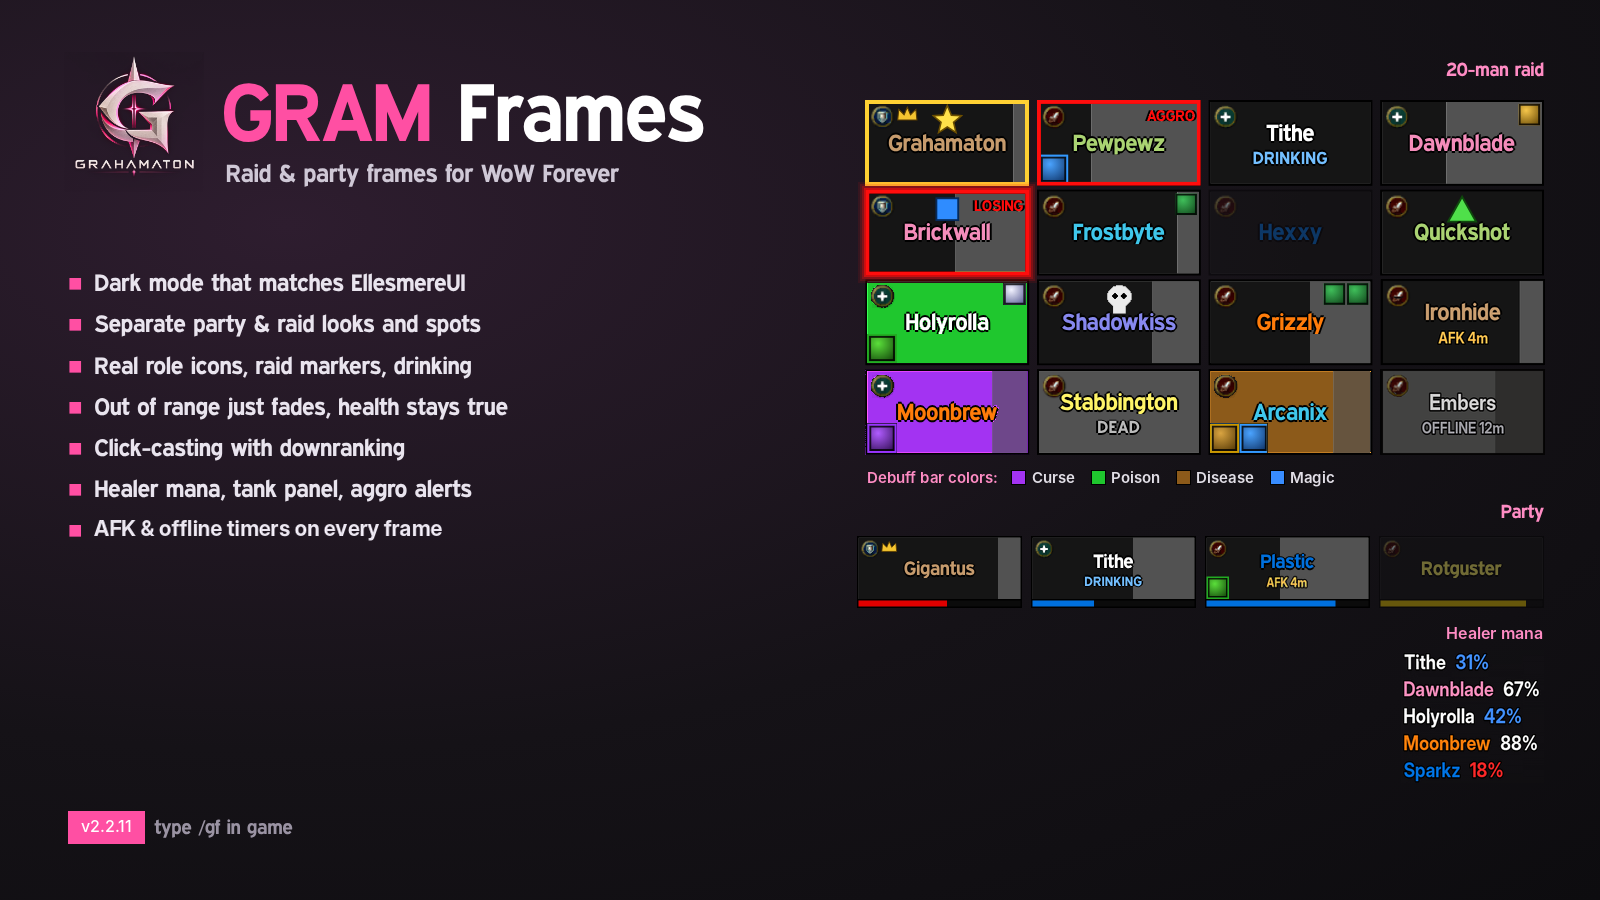
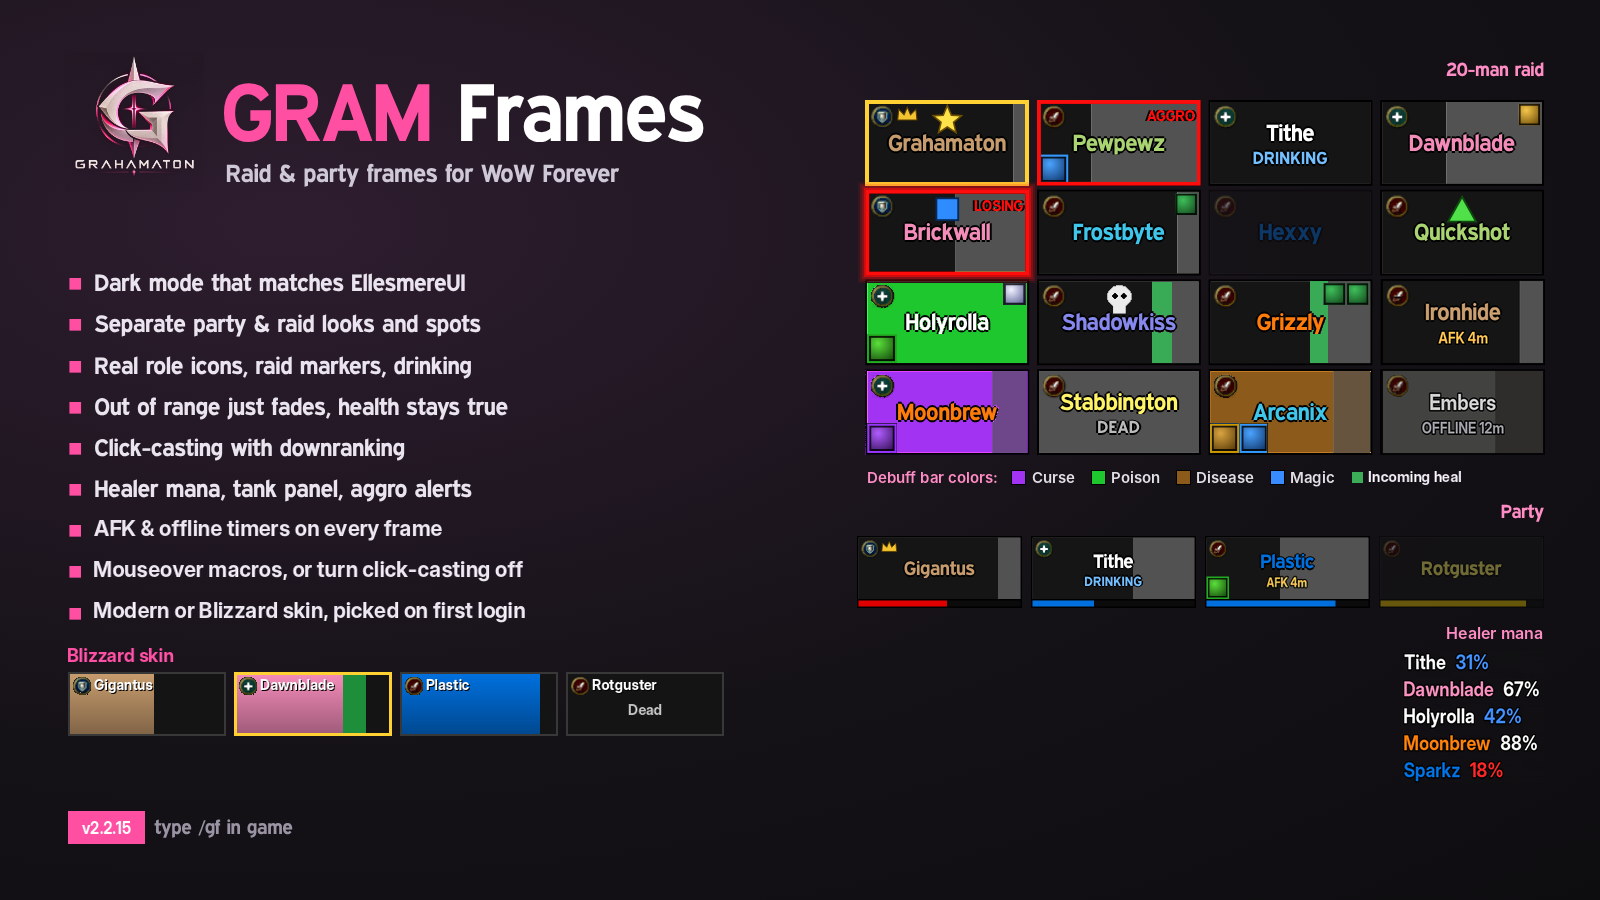
Main picture for 2.2.15: incoming heals, Blizzard skin row, macros bullet, v2.2.15 badge
Adds tools/images (badge script + helpers) and CLAUDE.md release checklist:
update the main picture every build.

Claude-Session: https://claude.ai/code/session_01QoGf5yo5Mq9qESaEJTN78D

diff --git a/tools/images/common.py b/tools/images/common.py
@@ -1,0 +1,39 @@
+from PIL import Image, ImageDraw
+from txt import text_img
+GOLD=(255,209,51); RED=(255,13,13); AMBER=(255,191,77); GREYTXT=(191,191,199)
+
+def col_bg(im,x0,y0,w,h,ref_dy):
+    return {x:im.getpixel((x,y0+ref_dy)) for x in range(x0,x0+w)}
+
+def move_name_up(im,box,dy,band,ref_dy,thresh=40,xpad=0,xr=None):
+    """box=(x0,y0,w,h) frame; band=(top,bottom) rel rows containing name; move up by dy."""
+    x0,y0,w,h=box; b=4*(w//84) if False else None
+    bgc=col_bg(im,x0,y0,w,h,ref_dy)
+    px=im.load(); moved=[]
+    for y in range(y0+band[0],y0+band[1]):
+        for x in (range(x0+xr[0],x0+xr[1]) if xr else range(x0+xpad,x0+w-xpad)):
+            p=px[x,y]; c=bgc[x]
+            if sum(abs(p[i]-c[i]) for i in range(3))>thresh:
+                moved.append((x,y,p))
+            px[x,y]=c
+    for x,y,p in moved: px[x,y-dy]=p
+
+def recolor_hue(im,box,match,newc):
+    x0,y0,x1,y1=box; px=im.load()
+    for y in range(y0,y1):
+        for x in range(x0,x1):
+            p=px[x,y]
+            if match(p):
+                t=max(p)/255
+                px[x,y]=tuple(int(c*t) for c in newc)
+
+def is_orange(p): r,g,b=p; return r>40 and r>g*1.25 and g>r*0.3 and b<r*0.35
+def is_white(p): return min(p)>200
+
+def border(im,x0,y0,w,h,th,color):
+    d=ImageDraw.Draw(im)
+    for i in range(th):
+        d.rectangle((x0+i,y0+i,x0+w-1-i,y0+h-1-i),outline=color)
+
+def paste_center(im,t,cx,cy):
+    im.paste(t,(int(cx-t.width/2),int(cy-t.height/2)),t)

diff --git a/tools/images/txt.py b/tools/images/txt.py
@@ -1,0 +1,21 @@
+from PIL import Image, ImageDraw, ImageFont, ImageFilter
+FONTS={'heros':'/usr/share/texmf/fonts/opentype/public/tex-gyre/texgyreheroscn-bold.otf',
+       'inter':'/usr/share/fonts/opentype/inter/InterDisplay-Bold.otf',
+       'interx':'/usr/share/fonts/opentype/inter/Inter-ExtraBold.otf'}
+def text_img(s, cap_px, color, font='inter', squash=0.86, outline=3, track=0):
+    """Render text with black outline; cap height ~cap_px. Returns RGBA."""
+    f=ImageFont.truetype(FONTS[font], 200)
+    # measure cap height of 'H'
+    bb=f.getbbox('H'); cap=bb[3]-bb[1]
+    size=int(200*cap_px/cap)
+    f=ImageFont.truetype(FONTS[font], size)
+    # draw char by char for tracking
+    w=int(f.getlength(s)+len(s)*track+outline*4+10); h=int(size*1.4+outline*4)
+    im=Image.new('RGBA',(w,h),(0,0,0,0)); d=ImageDraw.Draw(im)
+    x=outline*2
+    for ch in s:
+        d.text((x,outline*2),ch,font=f,fill=color+(255,),stroke_width=outline,stroke_fill=(0,0,0,255))
+        x+=f.getlength(ch)+track
+    im=im.crop(im.getbbox())
+    if squash!=1: im=im.resize((max(1,int(im.width*squash)),im.height),Image.LANCZOS)
+    return im

diff --git a/tools/images/badge.py b/tools/images/badge.py
@@ -1,0 +1,18 @@
+"""Redraw the version badge on the main picture (images/gramframes-banner.png)
+from the ## Version: line in GramFrames/GramFrames.toc. Run from the repo root:
+    python3 tools/images/badge.py
+Needs Pillow and the Inter Display Bold font (see txt.py)."""
+import os, re, sys
+sys.path.insert(0, os.path.dirname(os.path.abspath(__file__)))
+from PIL import Image, ImageDraw
+from txt import text_img
+
+toc = open('GramFrames/GramFrames.toc', encoding='utf-8').read()
+version = re.search(r'^## Version:\s*(\S+)', toc, re.M).group(1)
+path = 'images/gramframes-banner.png'
+im = Image.open(path).convert('RGB')
+ImageDraw.Draw(im).rectangle((68, 811, 144, 843), fill=(255, 79, 163))
+t = text_img('v' + version, 12.5, (255, 255, 255), 'inter', 0.9, 0)
+im.paste(t, (106 - t.width // 2, 827 - t.height // 2), t)
+im.save(path)
+print('badge ->', 'v' + version)

diff --git a/CLAUDE.md b/CLAUDE.md
@@ -1,0 +1,13 @@
+# Gram Frames: notes for Claude
+
+Jon is not technical: keep reports short and plain.
+
+## Every build / release (Jon asked for this every time)
+1. Bump the version in `GramFrames/GramFrames.toc` (`## Version:`), `GT.version` in `GramFrames/Core.lua`, and the `Version` line in `README.md`. Add a `CHANGELOG.md` entry.
+2. **Update the main picture** `images/gramframes-banner.png` every build:
+   - version badge: `python3 tools/images/badge.py`
+   - show the new feature on the frames in the picture (and a bullet if it's a big one). `tools/images/common.py` + `txt.py` have helpers (outlined text, borders, recolor).
+   - keep `images/gramframes-raid.png` / `gramframes-party-card.png` in step when the feature shows on frames.
+3. Rebuild the zip from the repo root: `rm -f GramFrames.zip && zip -qr GramFrames.zip GramFrames -x '*.ttf' '*.otf' '*Expressway*'` and check `unzip -l` has no font files. Expressway is a paid font: never commit or zip it.
+4. Commit as `Jon <jonathan.wehman@gmail.com>`, push to main, then run the "Upload to CurseForge" workflow (`curseforge.yml`, inputs `changelog`, `release_type`). Check the job log says "Uploaded Gram Frames <version> to CurseForge."
+5. Remind Jon: GitHub-download users re-download GramFrames.zip and replace the folder in `_forever_\Interface\AddOns`, then /reload. CurseForge pictures (Images tab) have to be uploaded by Jon by hand.
